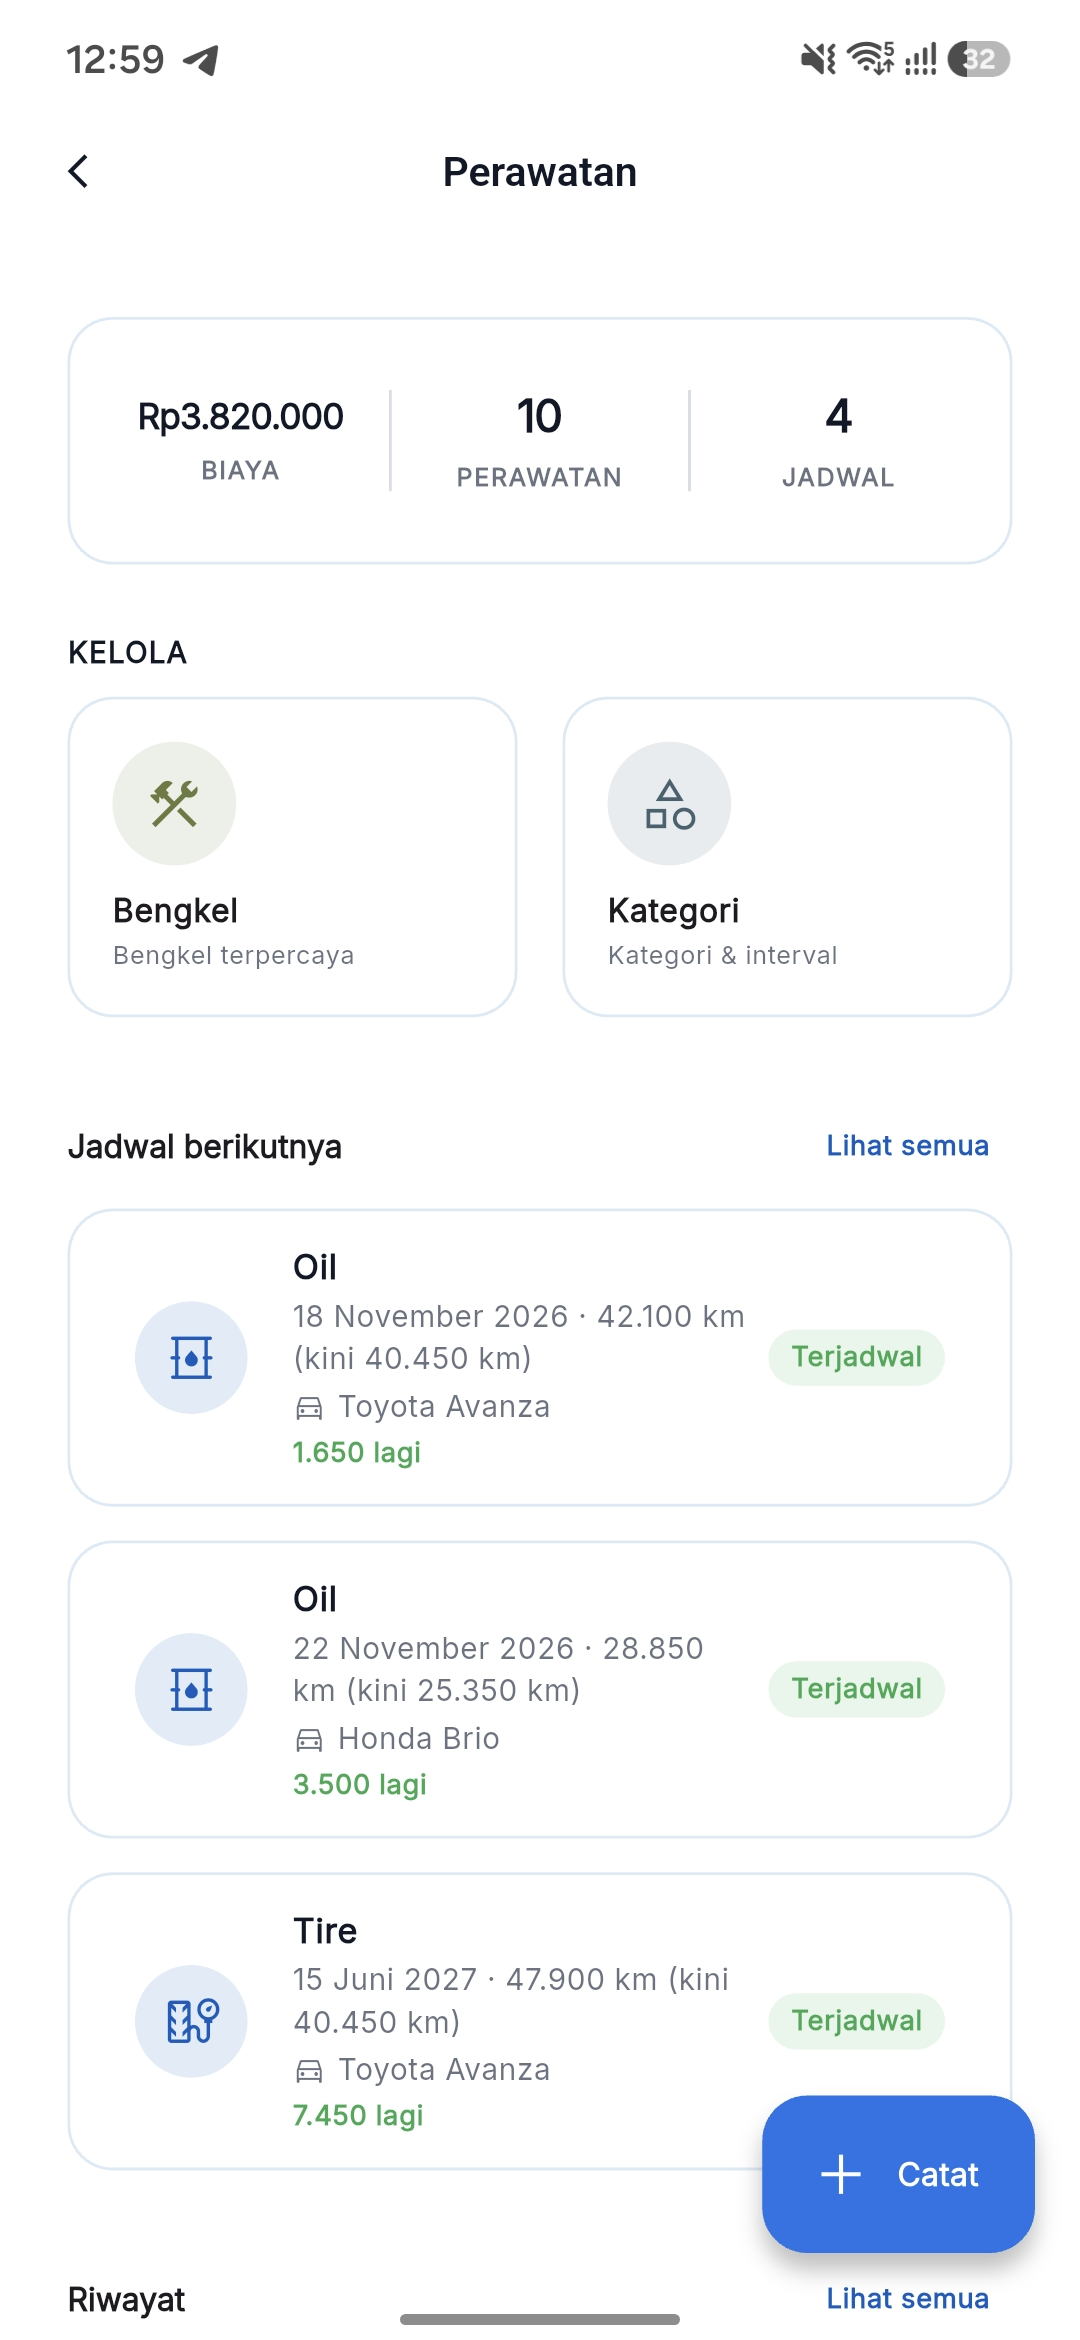
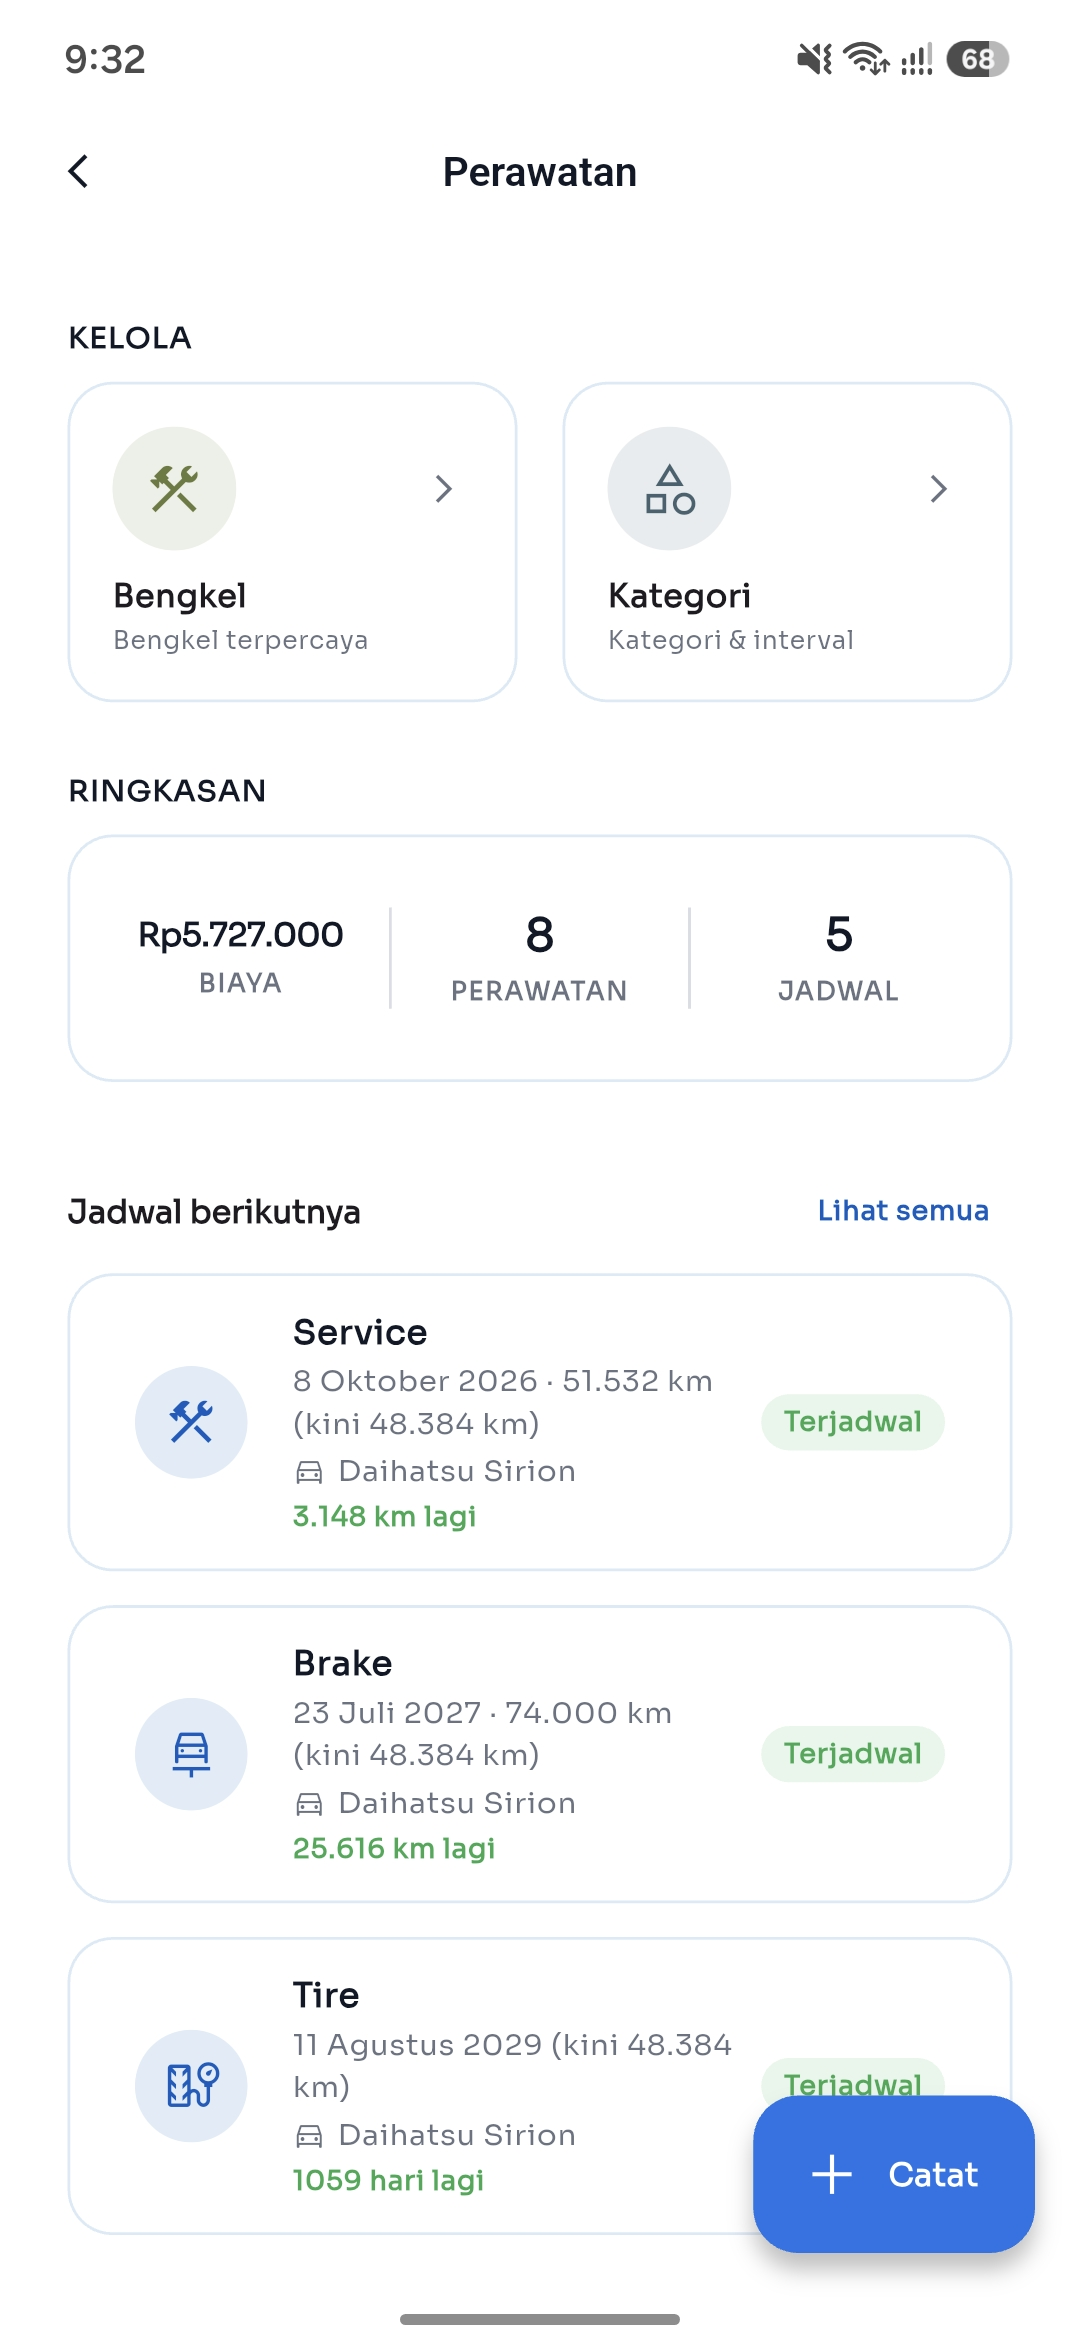
add momre image

diff --git a/index.html b/index.html
@@ -830,11 +830,11 @@
         <div>
           <span class="plate">Tampilan aplikasi</span>
           <h2 id="tampilan-h">Lihat langsung layarnya.</h2>
-          <p>Enam layar yang paling sering dipakai, dari beranda sampai menu modul.</p>
+          <p>Tujuh layar yang paling sering dipakai, dari beranda sampai detail servis.</p>
         </div>
         <div class="gal-counter" aria-hidden="true">
           <div class="odo"><span class="odo-cell" data-odo="0">0</span><span class="odo-cell" data-odo="1">1</span></div>
-          <span class="odo-rest">/ 06</span>
+          <span class="odo-rest">/ 07</span>
         </div>
       </div>
 
@@ -856,6 +856,7 @@
           <figure><img src="images/reminders.jpg" alt="Reminders CarBuddy" width="1080" height="2340" loading="lazy"><figcaption>Pengingat dengan hitungan hari sebelum jatuh tempo.</figcaption></figure>
           <figure><img src="images/more.jpg" alt="Menu More CarBuddy" width="1080" height="2340" loading="lazy"><figcaption>Semua modul: kendaraan, perawatan, BBM, pajak, asuransi, ban, aki.</figcaption></figure>
           <figure><img src="images/maintenance.jpg" alt="Perawatan CarBuddy" width="1080" height="2340" loading="lazy"><figcaption>Perawatan: biaya, riwayat servis, dan jadwal berikutnya.</figcaption></figure>
+          <figure><img src="images/detail-maintenance.jpg" alt="Detail servis CarBuddy" width="1080" height="2340" loading="lazy"><figcaption>Detail servis: rincian biaya per komponen, jadwal berikutnya, dan tautan servis lanjutan.</figcaption></figure>
         </div>
       </noscript>
     </div>
@@ -1108,6 +1109,11 @@ const SCREENSHOTS = [
     src: 'images/maintenance.jpg',
     alt: 'Tab Perawatan dengan ringkasan biaya Rp3.820.000, 10 perawatan, 4 jadwal, dan daftar servis berikutnya per kendaraan',
     caption: 'Perawatan: biaya, riwayat servis, dan jadwal berikutnya per kendaraan.'
+  },
+  {
+    src: 'images/detail-maintenance.jpg',
+    alt: 'Halaman detail servis CarBuddy: tanggal dan bengkel servis, rincian biaya per komponen dengan totalnya, jadwal servis berikutnya, dan aksi catat servis lanjutan',
+    caption: 'Detail servis: rincian biaya per komponen, jadwal berikutnya, dan tautan ke servis lanjutan.'
   }
 ];
 
